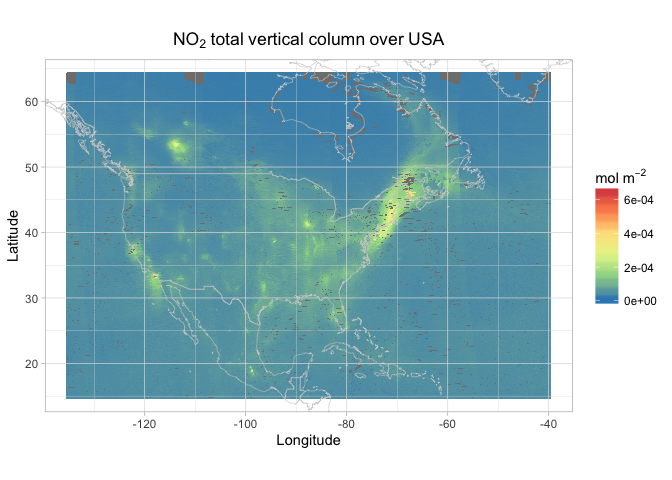
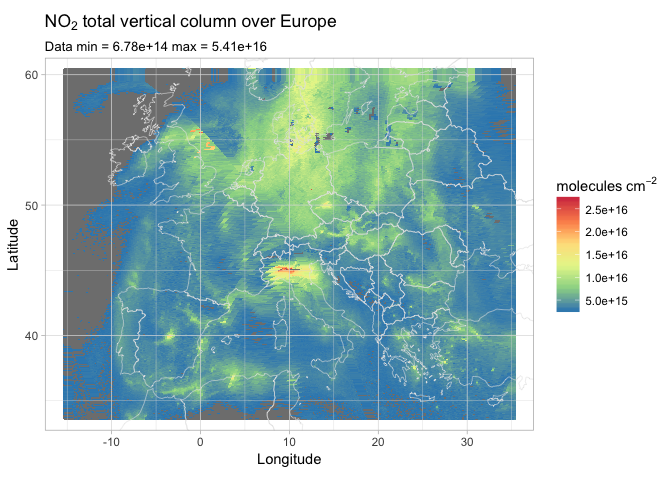
Site updated: 2018-02-20 10:43:39

diff --git a/2018/02/14/Plotting-Sentinel-5P-NetCDF-products-with-R-and-ggplot2/index.html b/2018/02/14/Plotting-Sentinel-5P-NetCDF-products-with-R-and-ggplot2/index.html
@@ -115,13 +115,13 @@
 <meta property="og:site_name" content="Space to Ground">
 <meta property="og:description" content="I recently started to look into the R language, as part of my growing interest in statistical learning and data analysis. As a first impression, I felt a bit overwhelmed by the number of differences w">
 <meta property="og:locale" content="en">
-<meta property="og:image" content="http://notes.stefanomattia.net/2018/02/14/Plotting-Sentinel-5P-NetCDF-products-with-R-and-ggplot2/unnamed-chunk-12-1.png">
 <meta property="og:image" content="http://notes.stefanomattia.net/2018/02/14/Plotting-Sentinel-5P-NetCDF-products-with-R-and-ggplot2/unnamed-chunk-13-1.png">
-<meta property="og:updated_time" content="2018-02-14T16:17:15.351Z">
+<meta property="og:image" content="http://notes.stefanomattia.net/2018/02/14/Plotting-Sentinel-5P-NetCDF-products-with-R-and-ggplot2/unnamed-chunk-14-1.png">
+<meta property="og:updated_time" content="2018-02-20T09:39:50.321Z">
 <meta name="twitter:card" content="summary">
 <meta name="twitter:title" content="Plotting Sentinel-5P NetCDF products with R and ggplot2">
 <meta name="twitter:description" content="I recently started to look into the R language, as part of my growing interest in statistical learning and data analysis. As a first impression, I felt a bit overwhelmed by the number of differences w">
-<meta name="twitter:image" content="http://notes.stefanomattia.net/2018/02/14/Plotting-Sentinel-5P-NetCDF-products-with-R-and-ggplot2/unnamed-chunk-12-1.png">
+<meta name="twitter:image" content="http://notes.stefanomattia.net/2018/02/14/Plotting-Sentinel-5P-NetCDF-products-with-R-and-ggplot2/unnamed-chunk-13-1.png">
 
 
 
@@ -526,14 +526,15 @@
 ## 
 ## $`_FillValue`
 ## [1] 9.96921e+36
-</code></pre><p>The actual data is read with the <code>ncvar_get</code> function. We could, for example, read the NO<sub>2</sub> total column data, along with the latitude and longitude information and store them into separate variables.</p>
+</code></pre><p>We are going to save the multiplication factor to convert to molecules/cm<sup>2</sup> and the fill value, which will come in handy later:<br><figure class="highlight r"><table><tr><td class="gutter"><pre><span class="line">1</span><br><span class="line">2</span><br></pre></td><td class="code"><pre><span class="line">mfactor = ncatt_get(nc, <span class="string">"DETAILED_RESULTS/nitrogendioxide_total_column"</span>, <span class="string">"multiplication_factor_to_convert_to_molecules_percm2"</span>)</span><br><span class="line">fillvalue = ncatt_get(nc, <span class="string">"DETAILED_RESULTS/nitrogendioxide_total_column"</span>, <span class="string">"_FillValue"</span>)</span><br></pre></td></tr></table></figure></p>
+<p>The actual data is read with the <code>ncvar_get</code> function. We could, for example, read the NO<sub>2</sub> total column data, along with the latitude and longitude information and store them into separate variables.</p>
 <figure class="highlight r"><table><tr><td class="gutter"><pre><span class="line">1</span><br><span class="line">2</span><br><span class="line">3</span><br><span class="line">4</span><br></pre></td><td class="code"><pre><span class="line">no2tc &lt;- ncvar_get(nc, <span class="string">"DETAILED_RESULTS/nitrogendioxide_total_column"</span>)</span><br><span class="line">lat &lt;- ncvar_get(nc, <span class="string">"PRODUCT/latitude"</span>)</span><br><span class="line">lon &lt;- ncvar_get(nc, <span class="string">"PRODUCT/longitude"</span>)</span><br><span class="line">dim(no2tc)</span><br></pre></td></tr></table></figure>
 <pre><code>## [1]  450 3246
 </code></pre><p>The data structure follows the Sentinel-5P product convention to store measurements into a scanline/ground pixel rectangular grid. As shown by the <code>dim</code> function, there are 3246 scanlines in this product, each one containing 450 ground pixels. Each ground pixel has associated coordinates stored in the latitude/longitude attributes.<br>We can now close the file:</p>
 <figure class="highlight r"><table><tr><td class="gutter"><pre><span class="line">1</span><br></pre></td><td class="code"><pre><span class="line">nc_close(nc)</span><br></pre></td></tr></table></figure>
-<h2 id="Preparing-the-data-frame"><a href="#Preparing-the-data-frame" class="headerlink" title="Preparing the data frame"></a>Preparing the data frame</h2><p>In principle, we could go ahead and plot this data, but the resulting plot would only include a single pass. If we want global coverage, we need to include an entire 15-orbit data set. To do so, we are going to loop over the list of files in the data set, read the content of the <code>nitrogendioxide_total_column</code> attribute and store it into a data frame, along with the associated coordinates. Note that we will be flattening the original two-dimensional data structures into a one-dimensional vector, using the <code>as.vector</code> function. On each i<sub>th</sub> iteration, we are going to concatenate the data frame created from the i<sub>th</sub> file to the existing data frame via the <code>rbind</code> function. As the whole process could take some time—it is a 6.6GB data set—we are going to measure the execution time.</p>
-<figure class="highlight r"><table><tr><td class="gutter"><pre><span class="line">1</span><br><span class="line">2</span><br><span class="line">3</span><br><span class="line">4</span><br><span class="line">5</span><br><span class="line">6</span><br><span class="line">7</span><br><span class="line">8</span><br><span class="line">9</span><br><span class="line">10</span><br><span class="line">11</span><br><span class="line">12</span><br><span class="line">13</span><br><span class="line">14</span><br><span class="line">15</span><br><span class="line">16</span><br><span class="line">17</span><br><span class="line">18</span><br><span class="line">19</span><br><span class="line">20</span><br><span class="line">21</span><br><span class="line">22</span><br><span class="line">23</span><br><span class="line">24</span><br><span class="line">25</span><br><span class="line">26</span><br><span class="line">27</span><br><span class="line">28</span><br><span class="line">29</span><br><span class="line">30</span><br></pre></td><td class="code"><pre><span class="line"><span class="comment"># declare dataframe</span></span><br><span class="line">no2df = <span class="literal">NULL</span></span><br><span class="line"></span><br><span class="line"><span class="comment"># get filenames</span></span><br><span class="line">no2files = list.files(ncpath, patter=<span class="string">"*nc"</span>, full.names=<span class="literal">TRUE</span>)</span><br><span class="line"></span><br><span class="line"><span class="comment"># save start time</span></span><br><span class="line">start.time &lt;- Sys.time()</span><br><span class="line"></span><br><span class="line"><span class="comment"># loop over filenames, open each one and add to dataframe</span></span><br><span class="line"><span class="keyword">for</span> (i <span class="keyword">in</span> seq_along(no2files)) &#123;</span><br><span class="line">  nc &lt;- nc_open(no2files[i])</span><br><span class="line">  <span class="comment"># get variables of interest</span></span><br><span class="line">  no2tc &lt;- ncvar_get(nc, <span class="string">"DETAILED_RESULTS/nitrogendioxide_total_column"</span>)</span><br><span class="line">  lat &lt;- ncvar_get(nc, <span class="string">"PRODUCT/latitude"</span>)</span><br><span class="line">  lon &lt;- ncvar_get(nc, <span class="string">"PRODUCT/longitude"</span>)</span><br><span class="line">  <span class="comment"># concatenate the new data to the global data frame</span></span><br><span class="line">  no2df &lt;- rbind(no2df, data.frame(lat=as.vector(lat), </span><br><span class="line">                                   lon=as.vector(lon), </span><br><span class="line">                                   no2tc=as.vector(no2tc)))</span><br><span class="line">  <span class="comment"># close file</span></span><br><span class="line">  nc_close(nc)</span><br><span class="line">&#125;</span><br><span class="line"></span><br><span class="line"><span class="comment"># measure elapsed time</span></span><br><span class="line">stop.time &lt;- Sys.time()</span><br><span class="line">time.taken &lt;- stop.time - start.time</span><br><span class="line"></span><br><span class="line">print(paste(dim(no2df)[<span class="number">1</span>], <span class="string">"observations read from"</span>, length(no2files), </span><br><span class="line">            <span class="string">"files in"</span>, time.taken, <span class="string">"seconds"</span>))</span><br></pre></td></tr></table></figure>
-<pre><code>## [1] &quot;30527550 observations read from 21 files in 29.6212930679321 seconds&quot;
+<h2 id="Preparing-the-data-frame"><a href="#Preparing-the-data-frame" class="headerlink" title="Preparing the data frame"></a>Preparing the data frame</h2><p>In principle, we could go ahead and plot this data, but the resulting plot would only include a single pass. If we want global coverage, we need to include an entire 15-orbit data set. To do so, we are going to loop over the list of files in the data set, read the content of the <code>nitrogendioxide_total_column</code> attribute and store it into a data frame, along with the associated coordinates. As an intermediate step, we are going to convert the unit to molecules/cm<sup>2</sup> using the conversion factor we saved before. Note that we will be flattening the original two-dimensional data structures into a one-dimensional vector, using the <code>as.vector</code> function. On each i<sub>th</sub> iteration, we are going to concatenate the data frame created from the i<sub>th</sub> file to the existing data frame via the <code>rbind</code> function. As the whole process could take some time—it is a 6.6GB data set—we are going to measure the execution time.</p>
+<figure class="highlight r"><table><tr><td class="gutter"><pre><span class="line">1</span><br><span class="line">2</span><br><span class="line">3</span><br><span class="line">4</span><br><span class="line">5</span><br><span class="line">6</span><br><span class="line">7</span><br><span class="line">8</span><br><span class="line">9</span><br><span class="line">10</span><br><span class="line">11</span><br><span class="line">12</span><br><span class="line">13</span><br><span class="line">14</span><br><span class="line">15</span><br><span class="line">16</span><br><span class="line">17</span><br><span class="line">18</span><br><span class="line">19</span><br><span class="line">20</span><br><span class="line">21</span><br><span class="line">22</span><br><span class="line">23</span><br><span class="line">24</span><br><span class="line">25</span><br><span class="line">26</span><br><span class="line">27</span><br><span class="line">28</span><br><span class="line">29</span><br><span class="line">30</span><br><span class="line">31</span><br><span class="line">32</span><br></pre></td><td class="code"><pre><span class="line"><span class="comment"># declare dataframe</span></span><br><span class="line">no2df = <span class="literal">NULL</span></span><br><span class="line"></span><br><span class="line"><span class="comment"># get filenames</span></span><br><span class="line">no2files = list.files(ncpath, patter=<span class="string">"*nc"</span>, full.names=<span class="literal">TRUE</span>)</span><br><span class="line"></span><br><span class="line"><span class="comment"># save start time</span></span><br><span class="line">start.time &lt;- Sys.time()</span><br><span class="line"></span><br><span class="line"><span class="comment"># loop over filenames, open each one and add to dataframe</span></span><br><span class="line"><span class="keyword">for</span> (i <span class="keyword">in</span> seq_along(no2files)) &#123;</span><br><span class="line">  nc &lt;- nc_open(no2files[i])</span><br><span class="line">  <span class="comment"># get variables of interest</span></span><br><span class="line">  no2tc &lt;- ncvar_get(nc, <span class="string">"DETAILED_RESULTS/nitrogendioxide_total_column"</span>)  </span><br><span class="line">  <span class="comment"># apply multiplication factor for unit conversion</span></span><br><span class="line">  no2tc &lt;- no2tc*mfactor$value</span><br><span class="line">   lat &lt;- ncvar_get(nc, <span class="string">"PRODUCT/latitude"</span>)</span><br><span class="line">  lon &lt;- ncvar_get(nc, <span class="string">"PRODUCT/longitude"</span>)</span><br><span class="line">  <span class="comment"># concatenate the new data to the global data frame</span></span><br><span class="line">  no2df &lt;- rbind(no2df, data.frame(lat=as.vector(lat), </span><br><span class="line">                                   lon=as.vector(lon), </span><br><span class="line">                                   no2tc=as.vector(no2tc)))</span><br><span class="line">  <span class="comment"># close file</span></span><br><span class="line">  nc_close(nc)</span><br><span class="line">&#125;</span><br><span class="line"></span><br><span class="line"><span class="comment"># measure elapsed time</span></span><br><span class="line">stop.time &lt;- Sys.time()</span><br><span class="line">time.taken &lt;- stop.time - start.time</span><br><span class="line"></span><br><span class="line">print(paste(dim(no2df)[<span class="number">1</span>], <span class="string">"observations read from"</span>, length(no2files), </span><br><span class="line">            <span class="string">"files in"</span>, time.taken, <span class="string">"seconds"</span>))</span><br></pre></td></tr></table></figure>
+<pre><code>## [1] &quot;30527550 observations read from 21 files in 33.7685630321503 seconds&quot;
 </code></pre><p>That’s a big data set! Let’s have a look at it:</p>
 <figure class="highlight r"><table><tr><td class="gutter"><pre><span class="line">1</span><br></pre></td><td class="code"><pre><span class="line">head(no2df)</span><br></pre></td></tr></table></figure>
 <pre><code>##         lat       lon no2tc
@@ -544,17 +545,17 @@
 ## 5 -58.24602 -52.59883    NA
 ## 6 -58.25938 -52.75446    NA
 </code></pre><p>As expected, each row contains an NO<sub>2</sub> measurement and the associated coordinates of the center pixel.</p>
-<h2 id="Plotting-the-data"><a href="#Plotting-the-data" class="headerlink" title="Plotting the data"></a>Plotting the data</h2><p>To display regional plot, we’d better subset the data frame first, that is, we are going to reduce the number of pixels (or data frame rows) handed over to the plot function. As we don’t want to duplicate code every time we make a new plot, we are going to define a function that accepts boundary coordinates and plot the correspondent region on a map.</p>
-<figure class="highlight r"><table><tr><td class="gutter"><pre><span class="line">1</span><br><span class="line">2</span><br><span class="line">3</span><br><span class="line">4</span><br><span class="line">5</span><br><span class="line">6</span><br><span class="line">7</span><br><span class="line">8</span><br><span class="line">9</span><br><span class="line">10</span><br><span class="line">11</span><br><span class="line">12</span><br><span class="line">13</span><br><span class="line">14</span><br><span class="line">15</span><br><span class="line">16</span><br><span class="line">17</span><br><span class="line">18</span><br><span class="line">19</span><br><span class="line">20</span><br><span class="line">21</span><br><span class="line">22</span><br></pre></td><td class="code"><pre><span class="line">PlotRegion &lt;- <span class="keyword">function</span>(df, latlon, title) &#123;</span><br><span class="line">  <span class="comment"># Plot the given dataset over a geographic region.</span></span><br><span class="line">  <span class="comment">#</span></span><br><span class="line">  <span class="comment"># Args:</span></span><br><span class="line">  <span class="comment">#   df: The dataset, should include the no2tc, lat, lon columns</span></span><br><span class="line">  <span class="comment">#   latlon: A vector of four values identifying the botton-left and top-right corners </span></span><br><span class="line">  <span class="comment">#           c(latmin, latmax, lonmin, lonmax)</span></span><br><span class="line">  <span class="comment">#   title: The plot title</span></span><br><span class="line">  </span><br><span class="line">  <span class="comment"># subset the data frame first</span></span><br><span class="line">  df_sub &lt;- subset(df, lat&gt;latlon[<span class="number">1</span>] &amp; lat&lt;latlon[<span class="number">2</span>] &amp; lon&gt;latlon[<span class="number">3</span>] &amp; lon&lt;latlon[<span class="number">4</span>])</span><br><span class="line"></span><br><span class="line">  ggplot(df_sub, aes(y=lat, x=lon, fill=no2tc)) + </span><br><span class="line">    geom_tile(width=<span class="number">1</span>, height=<span class="number">1</span>) +</span><br><span class="line">    borders(<span class="string">'world'</span>, xlim=range(df_sub$lon), ylim=range(df_sub$lat), colour=<span class="string">'gray80'</span>, size=<span class="number">.2</span>) + </span><br><span class="line">    theme_light() + </span><br><span class="line">    theme(panel.ontop=<span class="literal">TRUE</span>, panel.background=element_blank(), plot.title = element_text(hjust=<span class="number">0.5</span>)) +</span><br><span class="line">    scale_color_distiller(palette=<span class="string">'Spectral'</span>) +</span><br><span class="line">    scale_fill_distiller(palette=<span class="string">'Spectral'</span>) +</span><br><span class="line">    coord_quickmap(xlim=c(latlon[<span class="number">3</span>], latlon[<span class="number">4</span>]), ylim=c(latlon[<span class="number">1</span>], latlon[<span class="number">2</span>])) +</span><br><span class="line">    labs(title=title, x=<span class="string">"Longitude"</span>, y=<span class="string">"Latitude"</span>, fill=expression(mol~m^-<span class="number">2</span>))</span><br><span class="line">&#125;</span><br></pre></td></tr></table></figure>
-<p>There is a lot going on when calling the <code>ggplot</code> function, and the syntax might look a bit puzzling at first. Basically, we first need to define the base plot specifying the data to use and the aesthetics, and after that we can add more layers and themes to it.</p>
+<h2 id="Plotting-the-data"><a href="#Plotting-the-data" class="headerlink" title="Plotting the data"></a>Plotting the data</h2><p>To display regional plot, we’d better subset the data frame first, that is, we are going to reduce the number of pixels (or data frame rows) handed over to the plot function, by means of coordinate boundaries. We are also going to filter out all entries containing the fill value. As we don’t want to duplicate code every time we make a new plot, we are going to define a function that accepts boundary coordinates and plot the correspondent region on a map.</p>
+<figure class="highlight r"><table><tr><td class="gutter"><pre><span class="line">1</span><br><span class="line">2</span><br><span class="line">3</span><br><span class="line">4</span><br><span class="line">5</span><br><span class="line">6</span><br><span class="line">7</span><br><span class="line">8</span><br><span class="line">9</span><br><span class="line">10</span><br><span class="line">11</span><br><span class="line">12</span><br><span class="line">13</span><br><span class="line">14</span><br><span class="line">15</span><br><span class="line">16</span><br><span class="line">17</span><br><span class="line">18</span><br><span class="line">19</span><br><span class="line">20</span><br><span class="line">21</span><br><span class="line">22</span><br><span class="line">23</span><br></pre></td><td class="code"><pre><span class="line">PlotRegion &lt;- <span class="keyword">function</span>(df, latlon, title) &#123;</span><br><span class="line">  <span class="comment"># Plot the given dataset over a geographic region.</span></span><br><span class="line">  <span class="comment">#</span></span><br><span class="line">  <span class="comment"># Args:</span></span><br><span class="line">  <span class="comment">#   df: The dataset, should include the no2tc, lat, lon columns</span></span><br><span class="line">  <span class="comment">#   latlon: A vector of four values identifying the botton-left and top-right corners </span></span><br><span class="line">  <span class="comment">#           c(latmin, latmax, lonmin, lonmax)</span></span><br><span class="line">  <span class="comment">#   title: The plot title</span></span><br><span class="line">  </span><br><span class="line">  <span class="comment"># subset the data frame first</span></span><br><span class="line">  df_sub &lt;- subset(df, no2tc!=fillvalue &amp; lat&gt;latlon[<span class="number">1</span>] &amp; lat&lt;latlon[<span class="number">2</span>] &amp; lon&gt;latlon[<span class="number">3</span>] &amp; lon&lt;latlon[<span class="number">4</span>])</span><br><span class="line">  subtitle = paste(<span class="string">"Data min ="</span>, formatC(min(df_sub$no2tc, na.rm=<span class="literal">T</span>), format=<span class="string">"e"</span>, digits=<span class="number">2</span>), </span><br><span class="line">                   <span class="string">"max ="</span>, formatC(max(df_sub$no2tc, na.rm=<span class="literal">T</span>), format=<span class="string">"e"</span>, digits=<span class="number">2</span>))</span><br><span class="line"></span><br><span class="line">  ggplot(df_sub, aes(y=lat, x=lon, fill=no2tc)) + </span><br><span class="line">    geom_tile(width=<span class="number">1</span>, height=<span class="number">1</span>) +</span><br><span class="line">    borders(<span class="string">'world'</span>, xlim=range(df_sub$lon), ylim=range(df_sub$lat), colour=<span class="string">'gray90'</span>, size=<span class="number">.2</span>) + </span><br><span class="line">    theme_light() + </span><br><span class="line">    theme(panel.ontop=<span class="literal">TRUE</span>, panel.background=element_blank()) +</span><br><span class="line">    scale_fill_distiller(palette=<span class="string">'Spectral'</span>, limits=c(quantile(df_sub, <span class="number">.7</span>, na.rm=<span class="literal">T</span>), quantile(df_sub, <span class="number">.999</span>, na.rm=<span class="literal">T</span>))) +</span><br><span class="line">    coord_quickmap(xlim=c(latlon[<span class="number">3</span>], latlon[<span class="number">4</span>]), ylim=c(latlon[<span class="number">1</span>], latlon[<span class="number">2</span>])) +</span><br><span class="line">    labs(title=title, subtitle=subtitle, x=<span class="string">"Longitude"</span>, y=<span class="string">"Latitude"</span>, fill=expression(molecules~cm^-<span class="number">2</span>))</span><br><span class="line">&#125;</span><br></pre></td></tr></table></figure>
+<p>There is a lot going on when calling the <code>ggplot</code> function, and the syntax might look a bit puzzling at first. Basically, we first need to define the base plot specifying the data to use and the aesthetics, and after that we can add more layers and themes to it. I played a bit with the limits controlling the color scale in the <code>scale_fill_distiller</code> function in order to convey more information in the plot, which would otherwise look too <em>flat</em>, because of the outliers.</p>
 <p>Let’s see how it looks like. Let’s define some coordinate boundaries over Europe:</p>
 <figure class="highlight r"><table><tr><td class="gutter"><pre><span class="line">1</span><br><span class="line">2</span><br></pre></td><td class="code"><pre><span class="line">eu.coords = c(<span class="number">34</span>, <span class="number">60</span>, -<span class="number">15</span>, <span class="number">35</span>)</span><br><span class="line">PlotRegion(no2df, eu.coords, expression(NO[<span class="number">2</span>]~total~vertical~column~over~Europe))</span><br></pre></td></tr></table></figure>
-<img src="/2018/02/14/Plotting-Sentinel-5P-NetCDF-products-with-R-and-ggplot2/unnamed-chunk-12-1.png">
+<img src="/2018/02/14/Plotting-Sentinel-5P-NetCDF-products-with-R-and-ggplot2/unnamed-chunk-13-1.png">
 <p>That looks amazing! Well, not so much for our lungs, but still…<br>Pollution on the Po Valley in Italy is clearly visible, as well as bright spots on Madrid, Algiers, and Prague. The whole area over the Netherlands, Denmark, and Germany seems to be wrapped in a tick layer of NO<sub>2</sub>. Some artifacts are noticeable on the east side of Great Britain, that’s probably due to overlapping orbits, as our original data set contained more than fifteen orbits.<br>A clever approach in this case would have been to apply some binning and averaging when building the data frame, but that is possibly a topic for a future post.</p>
 <p>Curious about how North America is faring with their NO<sub>2</sub> concentration? Let’s see!</p>
 <figure class="highlight r"><table><tr><td class="gutter"><pre><span class="line">1</span><br><span class="line">2</span><br></pre></td><td class="code"><pre><span class="line">us.coords = c(<span class="number">15</span>, <span class="number">64</span>, -<span class="number">135</span>, -<span class="number">40</span>)</span><br><span class="line">PlotRegion(no2df, us.coords, expression(NO[<span class="number">2</span>]~total~vertical~column~over~USA))</span><br></pre></td></tr></table></figure>
-<img src="/2018/02/14/Plotting-Sentinel-5P-NetCDF-products-with-R-and-ggplot2/unnamed-chunk-13-1.png">
-<p>It doesn’t look much better, especially if you live on the east coast!</p>
+<img src="/2018/02/14/Plotting-Sentinel-5P-NetCDF-products-with-R-and-ggplot2/unnamed-chunk-14-1.png">
+<p>Here we can clearly see the different passes, each of them 3000km wide and acquired 100 minutes apart from each other. We can easily spot San Francisco and the Los Angeles/San Diego area on the west coast, Mexico City in the south, and Chicago in the mid-west. The whole north-east coast seems to be the area most affected by pollution.</p>
 <h2 id="Conclusion"><a href="#Conclusion" class="headerlink" title="Conclusion"></a>Conclusion</h2><p>In this post, we went through a few key concepts on dealing with NetCDF data in R: handling NetCDF files, extracting data from multiple files and building data frames, subsetting data frames and plotting the results. I don’t even feel like I have scratched the surface of what can be done with R and <code>ggplot2</code>, but hopefully this post gives an idea on how easy it is to handle and display atmosphere chemistry data in R. In the future, I’d like to look into <a href="https://blog.dominodatalab.com/geographic-visualization-with-rs-ggmaps/" target="_blank" rel="external">visualizing heatmaps</a> with the <a href="https://github.com/dkahle/ggmap" target="_blank" rel="external"><code>ggmap</code></a> package.</p>
 <p>I hope you enjoyed this post, feel free to comment if you have questions or remarks.</p>
 <p>References:</p>

diff --git a/2017/11/28/Sentinel-5P-pitch-rotation-manoeuvres-detection/index.html b/2017/11/28/Sentinel-5P-pitch-rotation-manoeuvres-detection/index.html
@@ -94,7 +94,7 @@
 
 
 
-  <meta name="keywords" content="python,scipy,sentinel-5p,step-detection," />
+  <meta name="keywords" content="sentinel-5p,python,scipy,step-detection," />
 
 
 
@@ -108,7 +108,7 @@
 
 
 <meta name="description" content="In the early phase of the Sentinel-5P commissioning, a number of pitch rotation manoeuvres were put in place, in order to perform specific in-flight calibration measurements.   In this post we are goi">
-<meta name="keywords" content="python,scipy,sentinel-5p,step-detection">
+<meta name="keywords" content="sentinel-5p,python,scipy,step-detection">
 <meta property="og:type" content="article">
 <meta property="og:title" content="Sentinel-5P pitch rotation manoeuvres detection">
 <meta property="og:url" content="http://notes.stefanomattia.net/2017/11/28/Sentinel-5P-pitch-rotation-manoeuvres-detection/index.html">
@@ -538,11 +538,11 @@
       
         <div class="post-tags">
           
+            <a href="/tags/sentinel-5p/" rel="tag"># sentinel-5p</a>
+          
             <a href="/tags/python/" rel="tag"># python</a>
           
             <a href="/tags/scipy/" rel="tag"># scipy</a>
-          
-            <a href="/tags/sentinel-5p/" rel="tag"># sentinel-5p</a>
           
             <a href="/tags/step-detection/" rel="tag"># step-detection</a>
           

diff --git a/2017/12/05/Sentinel-5P-irradiance-measurement-animation/index.html b/2017/12/05/Sentinel-5P-irradiance-measurement-animation/index.html
@@ -94,7 +94,7 @@
 
 
 
-  <meta name="keywords" content="python,sentinel-5p,matplotlib,animation," />
+  <meta name="keywords" content="sentinel-5p,python,matplotlib,animation," />
 
 
 
@@ -108,7 +108,7 @@
 
 
 <meta name="description" content="As part of the commissioning phase of the TROPOMI instrument on board of the ESA’s Sentinel-5P spacecraft, a dedicated radiometric measurement was put in place to estimate radiometric errors in Level">
-<meta name="keywords" content="python,sentinel-5p,matplotlib,animation">
+<meta name="keywords" content="sentinel-5p,python,matplotlib,animation">
 <meta property="og:type" content="article">
 <meta property="og:title" content="Sentinel-5P irradiance measurement animation">
 <meta property="og:url" content="http://notes.stefanomattia.net/2017/12/05/Sentinel-5P-irradiance-measurement-animation/index.html">
@@ -5220,9 +5220,9 @@ YQAAAAEAAAAATGF2ZjU3LjU2LjEwMQ==
       
         <div class="post-tags">
           
-            <a href="/tags/python/" rel="tag"># python</a>
-          
             <a href="/tags/sentinel-5p/" rel="tag"># sentinel-5p</a>
+          
+            <a href="/tags/python/" rel="tag"># python</a>
           
             <a href="/tags/matplotlib/" rel="tag"># matplotlib</a>
           

diff --git a/css/main.css b/css/main.css
@@ -1827,7 +1827,7 @@ pre .javascript .function {
   width: 4px;
   height: 4px;
   border-radius: 50%;
-  background: #59ec74;
+  background: #6bff30;
 }
 .links-of-blogroll {
   font-size: 13px;
